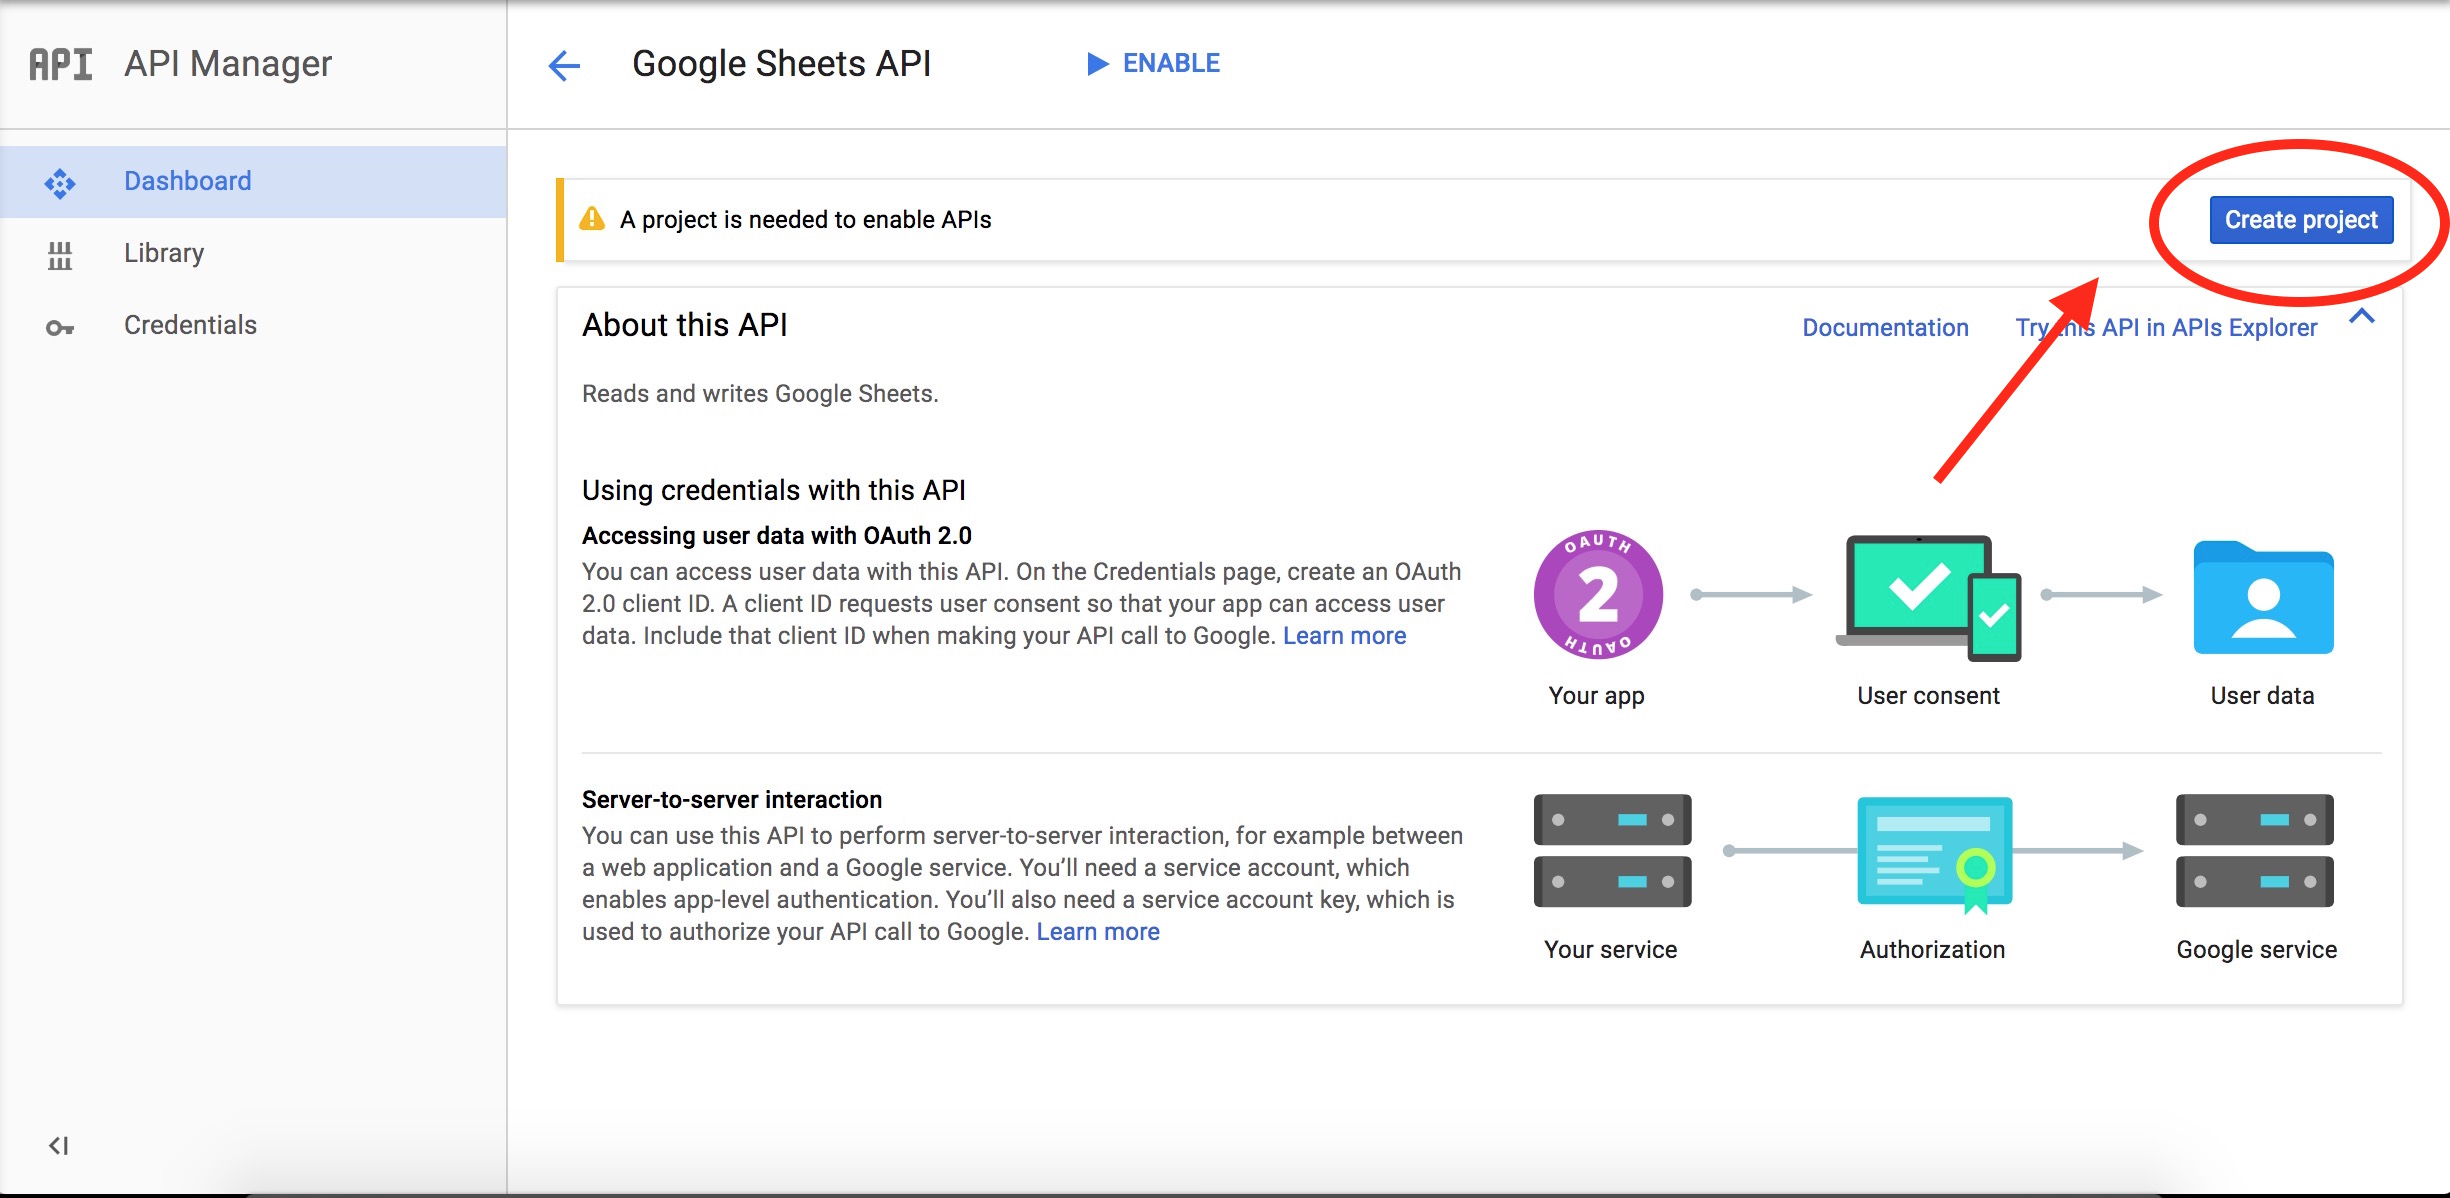
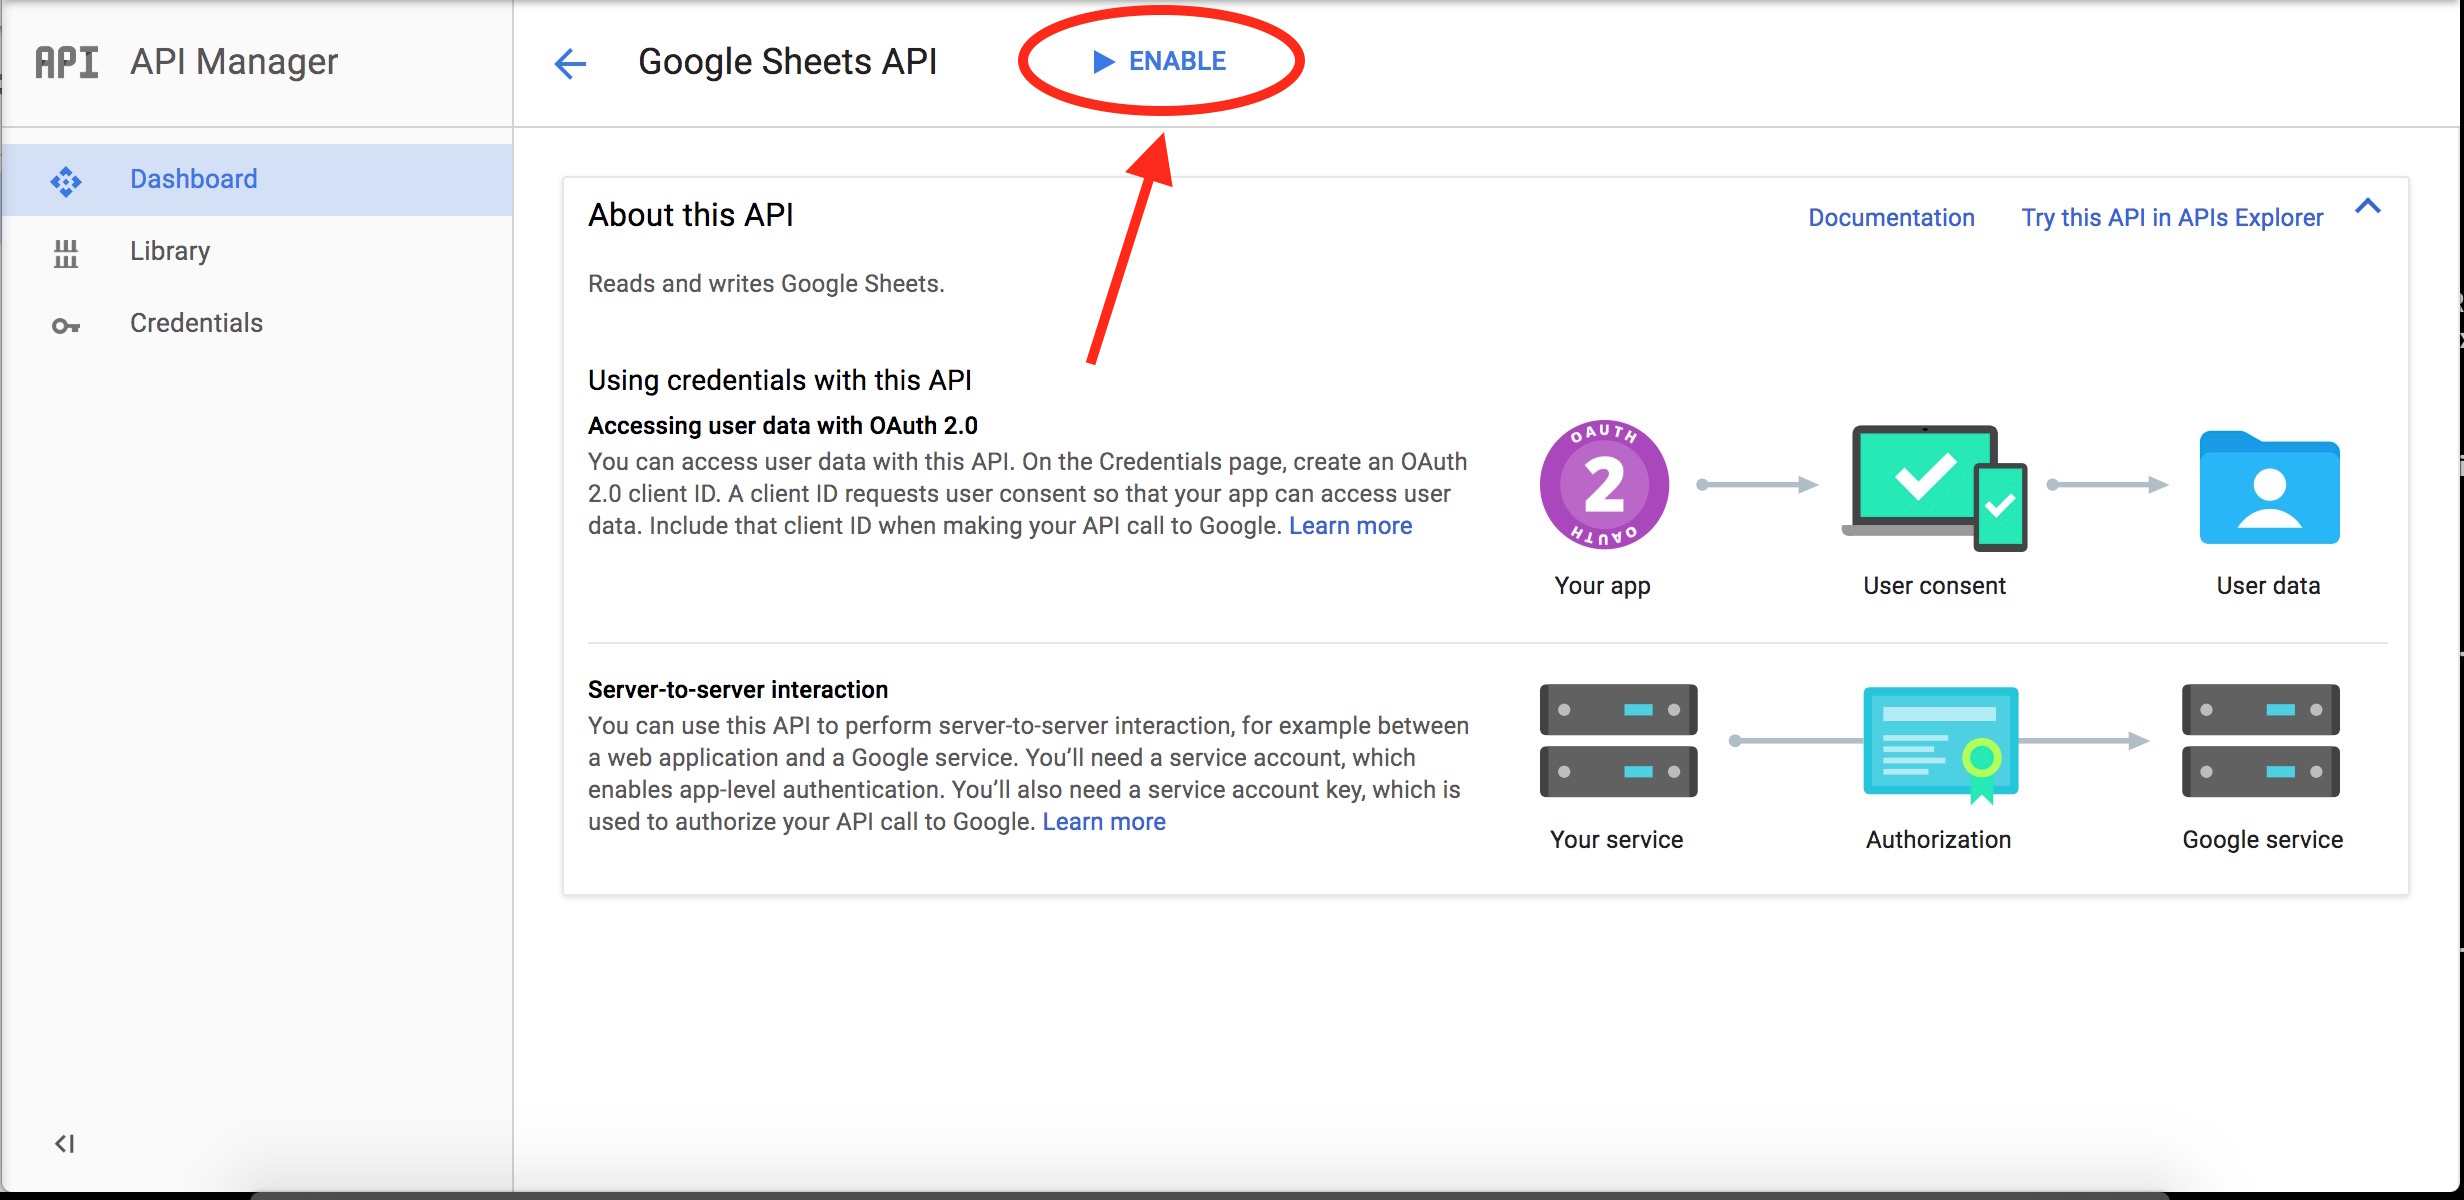
cleaned up images, adjusted syntax in How Easy

diff --git a/README.md b/README.md
@@ -11,9 +11,9 @@ Tabletop.js easily integrates Google Spreadsheets with templating systems and an
 
 **Step One:** Retrieve your API key and enable the Google Sheets API.
 
-**Step Two:** Use the blue "Share" button to get the link for your spreadsheet.
+**Step Two:** Use the blue "Share" button to get the URL for your spreadsheet.
 
-**Step Three:** Write a page that invokes Tabletop with the published URL Google gives you.
+**Step Three:** Write a page that invokes Tabletop with the URL Google gives you.
 
     function init() {
       Tabletop.init( { key: 'https://docs.google.com/spreadsheets/d/1Ndpyra7HBYIgmRWIY4Q2h0xQO9EG0zpA5vgVEhLg7AE/edit?usp=sharing',
@@ -38,15 +38,19 @@ Yes, it's that easy.
 
 ### 1) Retrieve your API Key
 
-Get a Google API key by going to <a href="console.developers.google.com">the Google Developers' Console</a>
+Get a Google API key by going to [the Google Developers' Console](console.developers.google.com)
 
-<img src="readme/step1_1.jpg" />
+![step one](readme/step1_1.jpg)
 Click on the Sheets API link under "Library".
 
-<img src="readme/step1_4.jpg" />
+<br>
+
+![step two](readme/step1_2.jpg)
 Enable the Google Sheets API.
 
-<img src="readme/step1_5.jpg" />
+<br>
+
+![step three](readme/step1_3.jpg)
 Create an API key through "Credentials".
 
 An API key will be generated for you to use in your web app. **It is very important that you keep this key secure**. Do not save this key into a public repository — there are a few ways you can keep your key secure, which you can [read about here](#securing-your-api-key).
